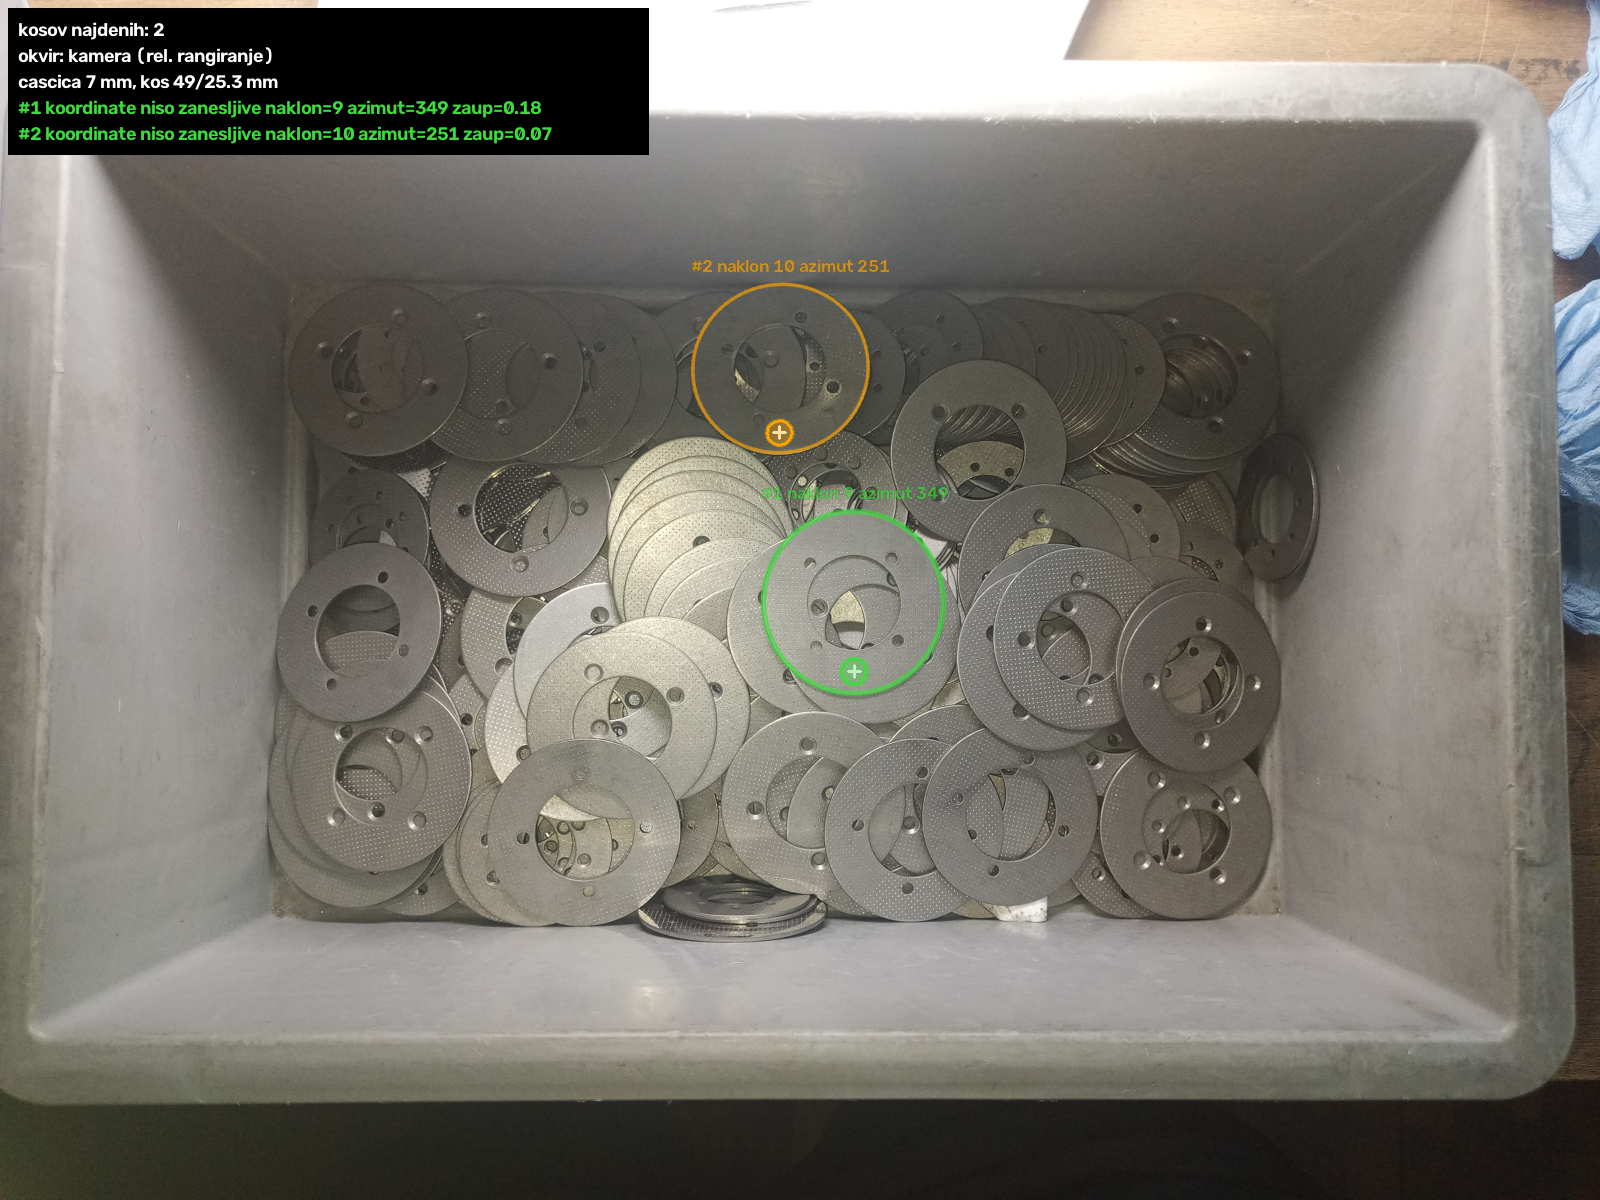
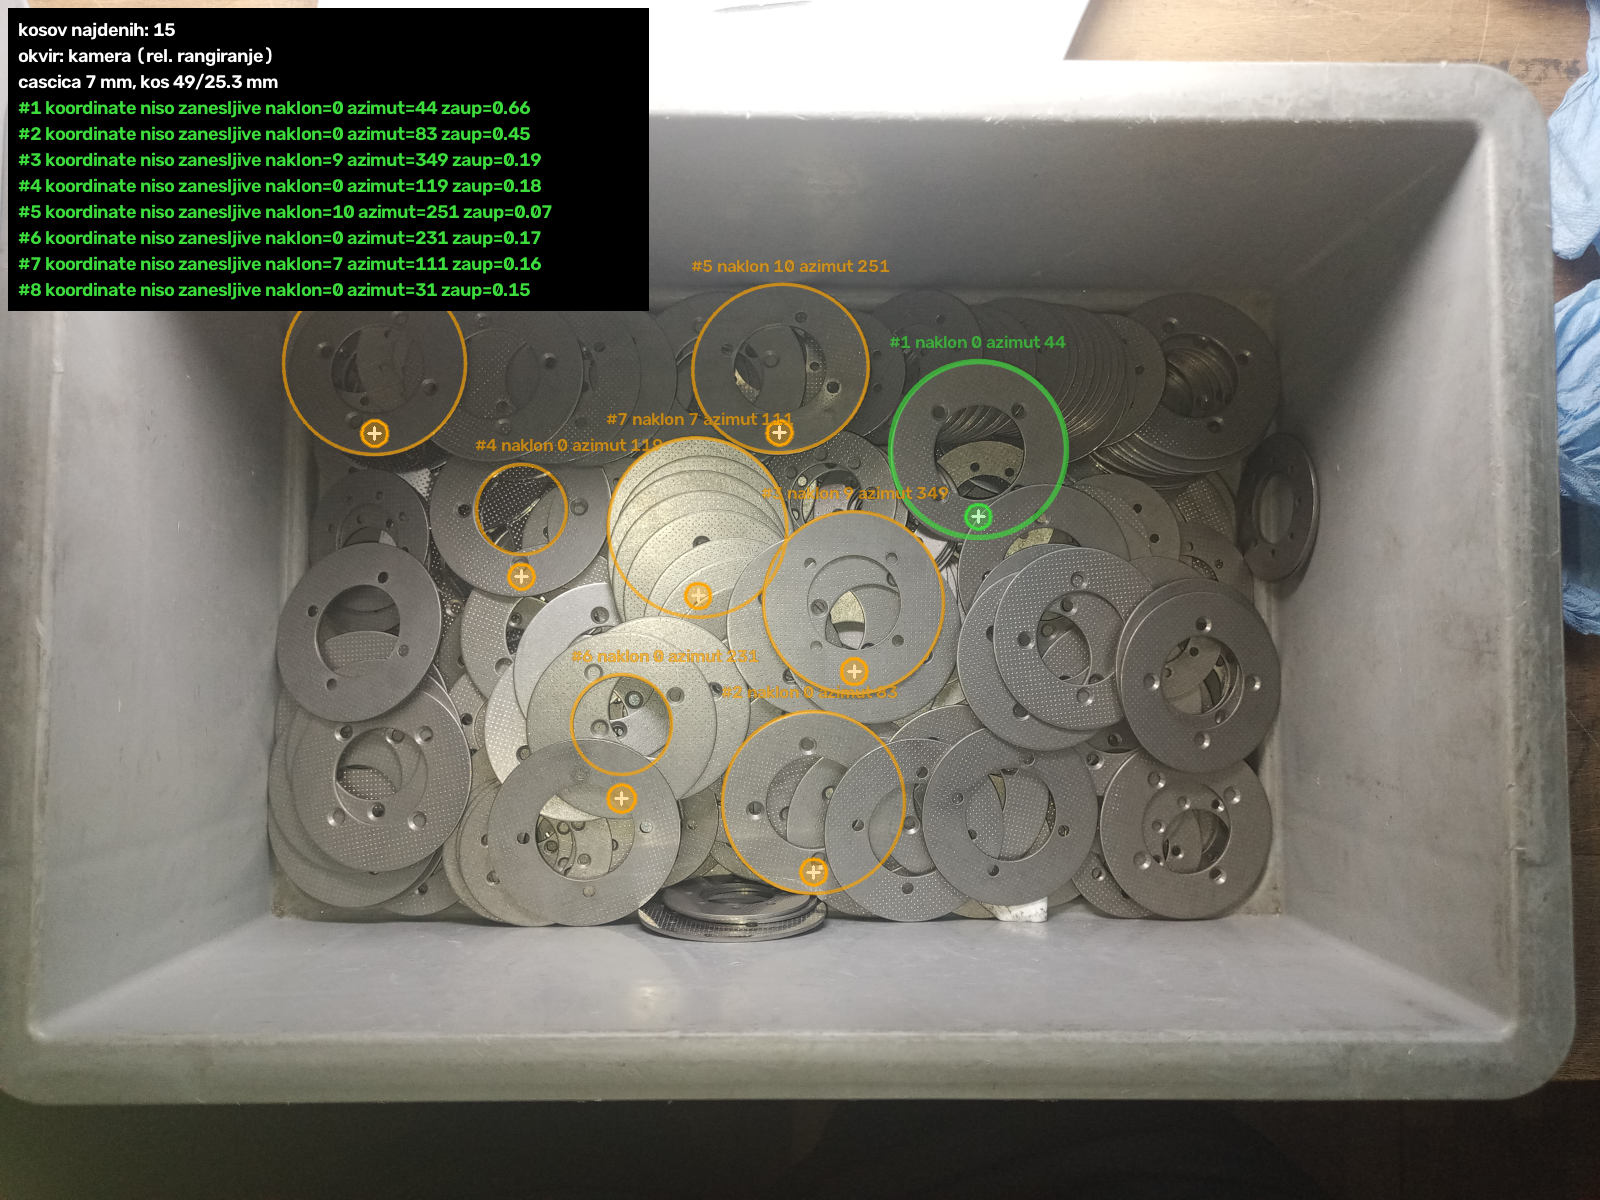
Normiranje vidnosti na sceno, prerazporeditev tez, potlacitev podvojenih
Na resnicni fotografiji popolnoma viden kos doseze surovo vidnost 0.67-0.83,
ne 1.0 - del obrisa se dotika sosedov iste kovine, kjer kontrasta ni. Absolutni
prag je zato prepustil 2 kosa od ~30, ceprav je RAZVRSCANJE mere pravilno.

Spremembe:
- vidnost se normira na najbolje viden kos v isti sceni; sele tako prag
  "10 % prekritosti" pomeni to, kar naj bi. Ce je tudi najboljsi kos pod
  spodnjo mejo, se normiranje ne izvede in scena dobi opozorilo,
- rob se isce v ozkem pasu vzdolz normale (fit ni popoln): vidnost dobrih kosov
  se dvigne za ~0.1, prekritih ne,
- brez okvira zaboja se clena "visina" in "oddaljenost od sten" izlocita iz
  ocene - visina izhaja iz globine, ta pa ima pri 1-2 mm kosih vecjo negotovost
  od razmika plasti,
- teza vidnosti dvignjena na 0.40: operativno merilo je "kos je na vrhu in
  prost", naklon pod ~30 stopinj je za sesek vseeno,
- potlacitev podvojenih detekcij istega kosa (20 -> 15 kandidatov).

Na fotografiji: 2 -> 15 kandidatov, oba uporabnikova potrjena kosa sta med
prvimi petimi. Na sinteticnem setu preciznost ostaja 1.00, recall 0.959.
59 testov, vsi zeleni.

Claude-Session: https://claude.ai/code/session_01AbxqwaT9jpcFbwQqBKJ8Fn

diff --git a/flange_picker/scoring.py b/flange_picker/scoring.py
@@ -28,6 +28,7 @@ class Candidate:
     wall_margin_mm: float = float("nan")
     grasp_point_mm: Optional[np.ndarray] = None
     grasp_point_px: Optional[np.ndarray] = None
+    visibility_raw: float = 0.0
     score: float = 0.0
     terms: dict = field(default_factory=dict)
     rejected: Optional[str] = None
@@ -157,6 +158,24 @@ def score_candidates(candidates: List[Candidate], calib, cfg: Config,
 
     for cand in candidates:
         cand.occlusion_ratio = float(cand.pair.outer.support_ratio)
+        cand.visibility_raw = float(cand.pair.outer.support_ratio)
+
+    # Normiranje na najbolje viden kos v sceni (glej opombo v config.yaml).
+    if bool(cfg["scoring.occlusion_normalise"]):
+        solid = [c.visibility_raw for c in candidates if c.pair.paired]
+        pool = solid if solid else [c.visibility_raw for c in candidates]
+        reference = float(np.percentile(pool, float(cfg["scoring.occlusion_reference_percentile"]))) \
+            if pool else 0.0
+        if reference >= float(cfg["scoring.occlusion_reference_floor"]):
+            for cand in candidates:
+                cand.occlusion_ratio = float(np.clip(cand.visibility_raw / reference, 0.0, 1.0))
+            normalisation = {"reference": round(reference, 3), "applied": True}
+        else:
+            normalisation = {"reference": round(reference, 3), "applied": False,
+                             "reason": "tudi najbolje viden kos ima presibek kontrast - "
+                                       "normiranje bi napihnilo vse vidnosti"}
+    else:
+        normalisation = {"applied": False, "reason": "izklopljeno v configu"}
 
     for cand in candidates:
         analyse_ring(cand, candidates, calib, cfg, image_shape)
@@ -180,7 +199,14 @@ def score_candidates(candidates: List[Candidate], calib, cfg: Config,
     h_lo, h_hi = float(heights.min()), float(heights.max())
     span = h_hi - h_lo
 
-    weights = cfg.section("scoring.weights").as_dict()
+    weights = dict(cfg.section("scoring.weights").as_dict())
+    if not calib.frame_reliable:
+        # Brez okvira zaboja visina izhaja iz globine, ta pa ima pri 1-2 mm
+        # debelih kosih vecjo negotovost od razmika plasti - clen je cist sum.
+        # Enako velja za oddaljenost od sten. Rangiranje takrat nosita vidnost
+        # in zaupanje.
+        weights.pop("height", None)
+        weights.pop("wall_margin", None)
     w_sum = sum(float(v) for v in weights.values()) or 1.0
     tilt_full = float(cfg["scoring.tilt_full_penalty_deg"])
     wall_good = float(cfg["scoring.wall_margin_good_mm"])
@@ -250,10 +276,34 @@ def score_candidates(candidates: List[Candidate], calib, cfg: Config,
         cand.terms = {"height": t_height, "tilt": t_tilt, "occlusion": t_occl,
                       "wall_margin": t_wall, "cup_clearance": t_cup,
                       "confidence": t_conf}
-        cand.score = float(sum(float(weights[k]) * cand.terms[k] for k in weights) / w_sum)
+        cand.score = float(sum(float(w) * cand.terms[k] for k, w in weights.items()) / w_sum)
         kept.append(cand)
 
+    for cand in candidates:
+        cand.notes.append(f"vidnost surova={cand.visibility_raw:.2f}")
     kept.sort(key=lambda c: -c.score)
+
+    # Potlacitev podvojenih: vec fitov istega kosa (iz razlicnih virov ali lokov)
+    # se v sliki prekriva. Obdrzimo najbolje ocenjenega.
+    nms_frac = float(cfg["scoring.duplicate_centre_frac"])
+    if nms_frac > 0:
+        survivors: List[Candidate] = []
+        for cand in kept:
+            duplicate = False
+            for other in survivors:
+                dist = float(np.linalg.norm(cand.pair.outer.center - other.pair.outer.center))
+                if dist < nms_frac * max(cand.pair.outer.a, other.pair.outer.a):
+                    duplicate = True
+                    break
+            if duplicate:
+                cand.rejected = "podvojena detekcija istega kosa"
+                rejected.append({"center_px": [round(float(cand.pair.outer.cx), 1),
+                                               round(float(cand.pair.outer.cy), 1)],
+                                 "reason": cand.rejected})
+            else:
+                survivors.append(cand)
+        kept = survivors
+
     min_score = float(cfg["scoring.min_score"])
     final = []
     for cand in kept:

diff --git a/flange_picker/ellipse.py b/flange_picker/ellipse.py
@@ -368,9 +368,17 @@ def compute_support_gradient(ellipses: Sequence[Ellipse], gx: Optional[np.ndarra
         threshold = max(factor * scale, floor)
         pts = ell.perimeter_points(n_samples)
         nrm = ell.outward_normals(n_samples)
-        xi = np.clip(np.round(pts[:, 0]).astype(int), 0, w - 1)
-        yi = np.clip(np.round(pts[:, 1]).astype(int), 0, h - 1)
-        radial = gx[yi, xi] * nrm[:, 0] + gy[yi, xi] * nrm[:, 1]
+        # Rob iscemo v ozkem pasu vzdolz normale: fit elipse ni popoln in vzorec
+        # tocno na njej lahko zgresi rob za piksel ali dva.
+        band = float(cfg["ellipse.support_search_band_px"])
+        radial = None
+        offsets = np.arange(-band, band + 0.5, 1.0) if band > 0 else np.array([0.0])
+        for offset in offsets:
+            q = pts + nrm * offset
+            xq = np.clip(np.round(q[:, 0]).astype(int), 0, w - 1)
+            yq = np.clip(np.round(q[:, 1]).astype(int), 0, h - 1)
+            r = gx[yq, xq] * nrm[:, 0] + gy[yq, xq] * nrm[:, 1]
+            radial = r if radial is None else np.where(np.abs(r) > np.abs(radial), r, radial)
         inside_image = ((pts[:, 0] >= 0) & (pts[:, 0] < w)
                         & (pts[:, 1] >= 0) & (pts[:, 1] < h))
         # Predznak vzamemo iz same elipse: obris kosa je svetel znotraj

diff --git a/ROADMAP.md b/ROADMAP.md
@@ -155,6 +155,23 @@ ocena šumna (+0.24 px pri dveh kosih) in popravek podre ujemanje para, zato je
 privzeto **izklopljen** in dodatno varovan s pragom razpršenosti. Za odpravo
 preostalega odmika Z je potrebna referenčna meritev na znanem kosu.
 
+**K19 — mera vidnosti je scensko odvisna; absolutni prag ni smiseln.**
+Izmerjeno na resnicni fotografiji: popolnoma viden kos doseze surovo vidnost
+0.67-0.83, ne 1.0, ker se del obrisa dotika sosedov iste kovine, kjer kontrasta
+ni. Absolutni prag 0.75 je zato prepustil 2 kosa od ~30. **Razvrscanje** mere pa
+je pravilno - na vrhu so bili res vidni kosi. Resitev je normiranje na najbolje
+viden kos v isti sceni (`scoring.occlusion_normalise`); sele tako prag
+"10 % prekritosti" pomeni to, kar naj bi. Varovalo: ce je tudi najboljsi kos pod
+`occlusion_reference_floor`, se normiranje ne izvede in scena dobi opozorilo.
+
+Ob tem se dvoje:
+- Rob se isce v ozkem pasu vzdolz normale (fit ni popoln), kar dvigne vidnost
+  dobrih kosov za ~0.1 brez ucinka na prekrite.
+- Brez okvira zaboja se clena "visina" in "oddaljenost od sten" izlocita iz
+  ocene: visina izhaja iz globine, ta pa ima pri 1-2 mm kosih vecjo negotovost
+  od razmika plasti - clen je cist sum. Rangiranje takrat nosita vidnost in
+  zaupanje.
+
 **K17 — moj generator kandidatov je bil ozko grlo, ne mera vidnosti.**
 Domneval sem, da slabse osvetljeni kosi padejo na meri vidnosti. Meritev na
 resnicni fotografiji je to ovrgla: obrisov prave velikosti je sploh nastalo le
